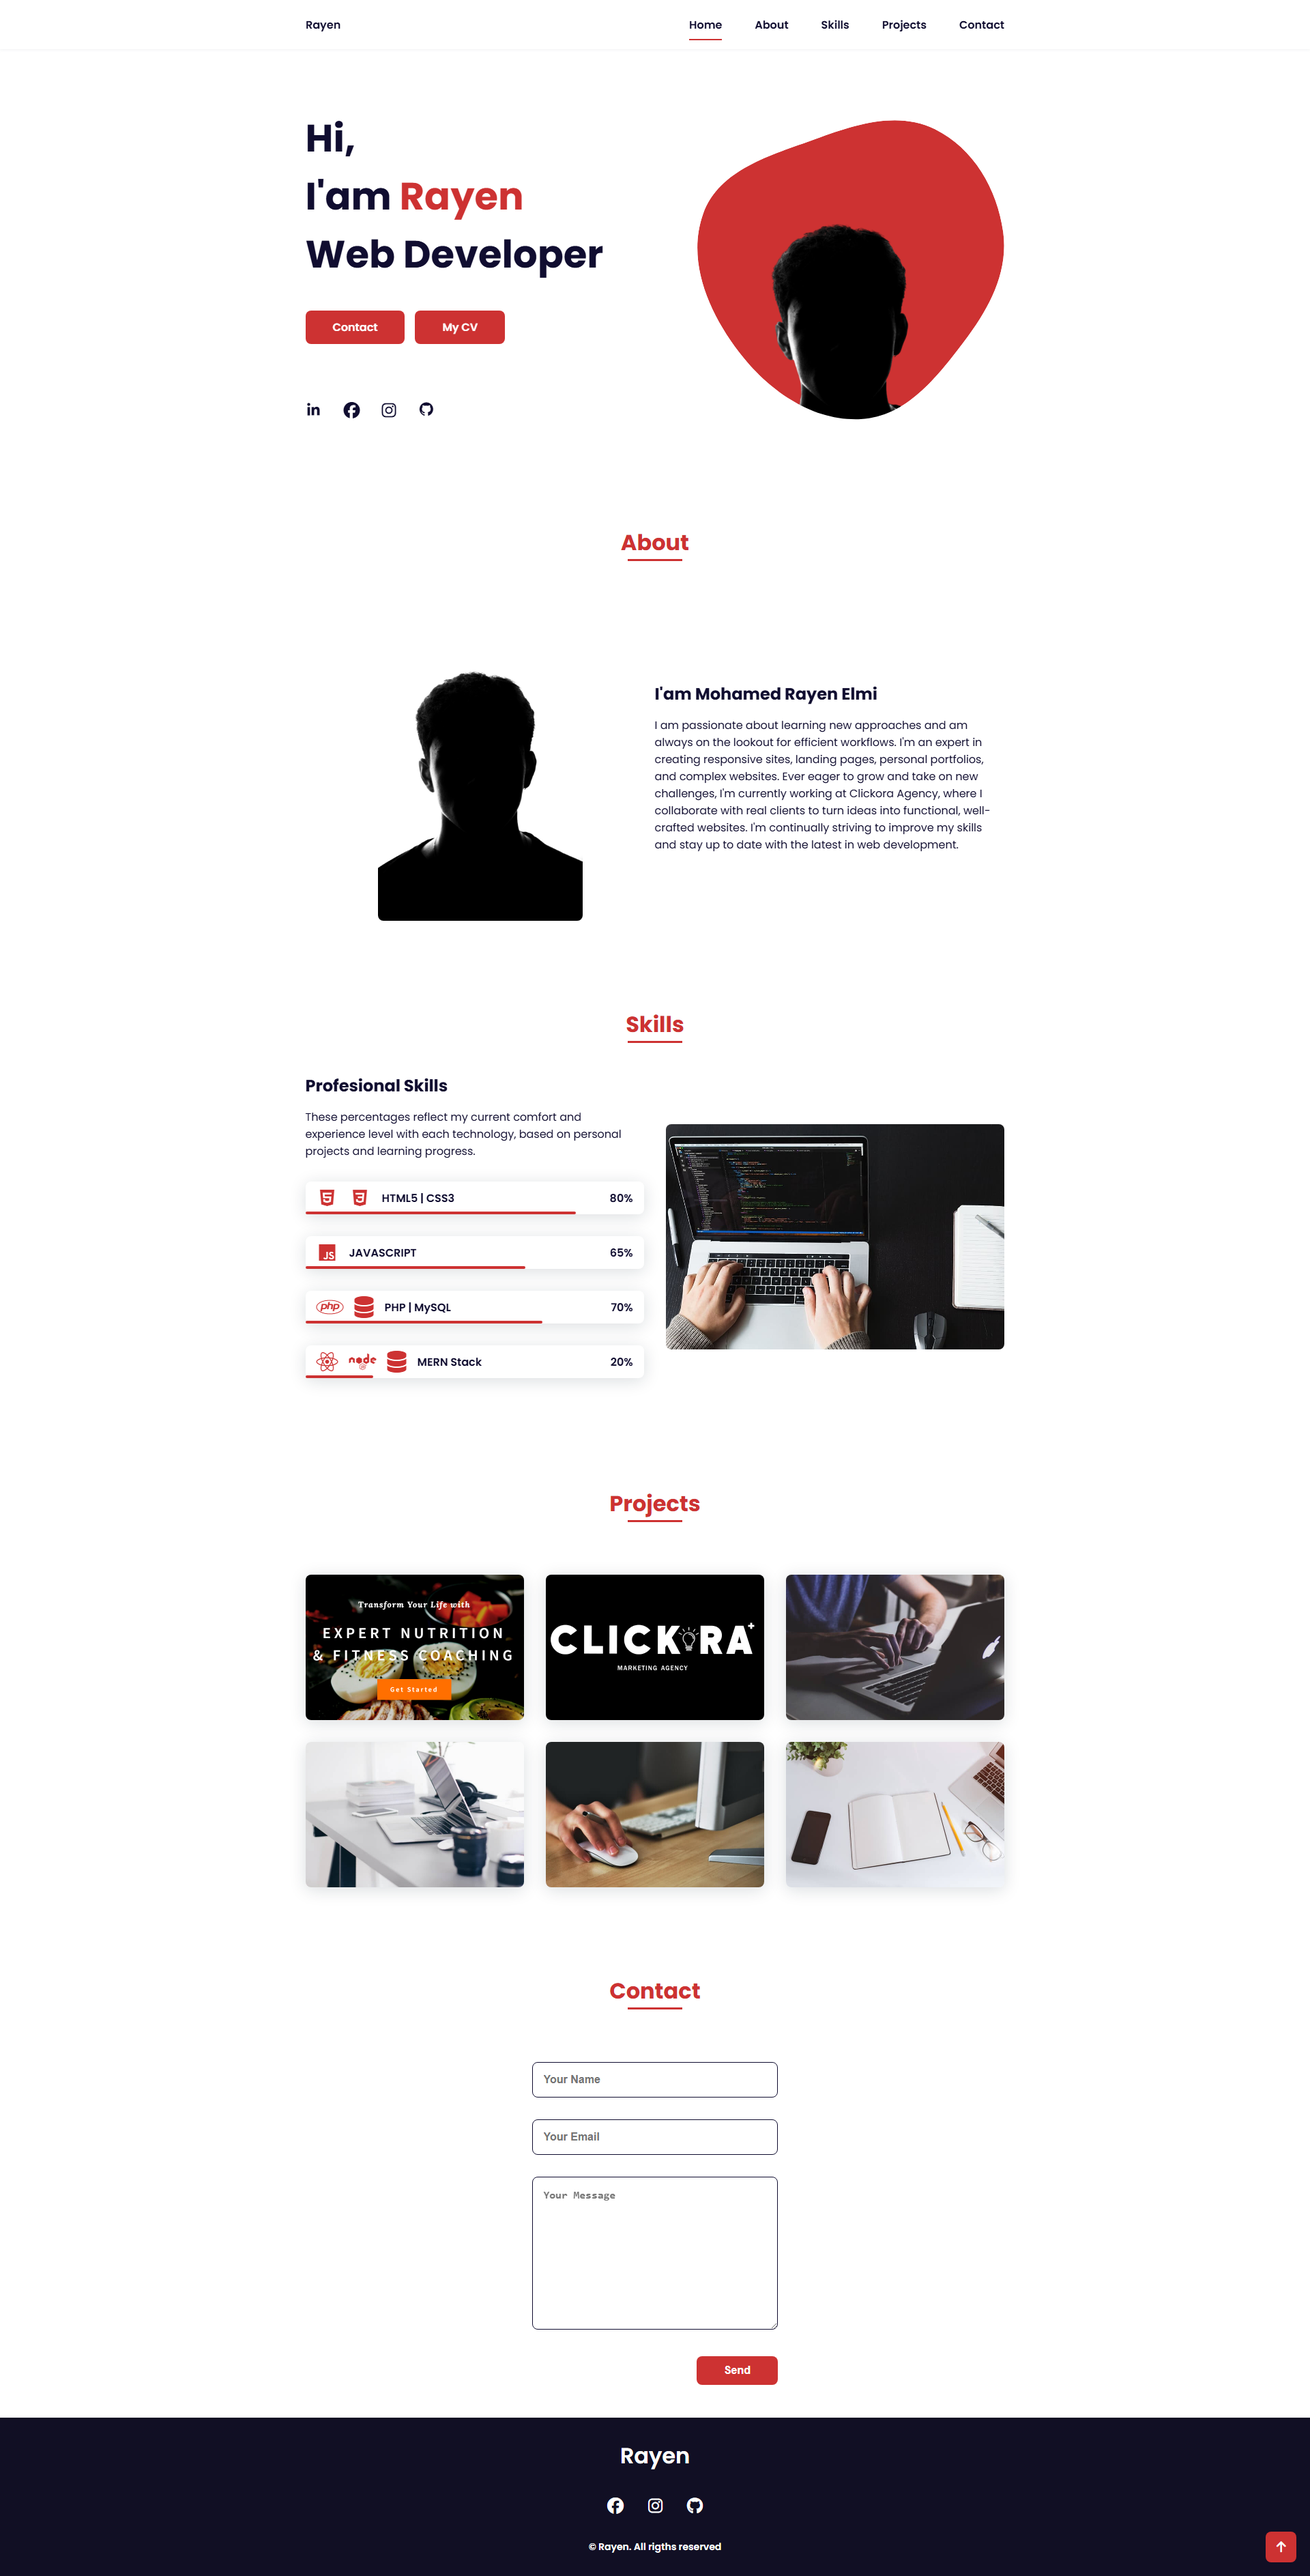
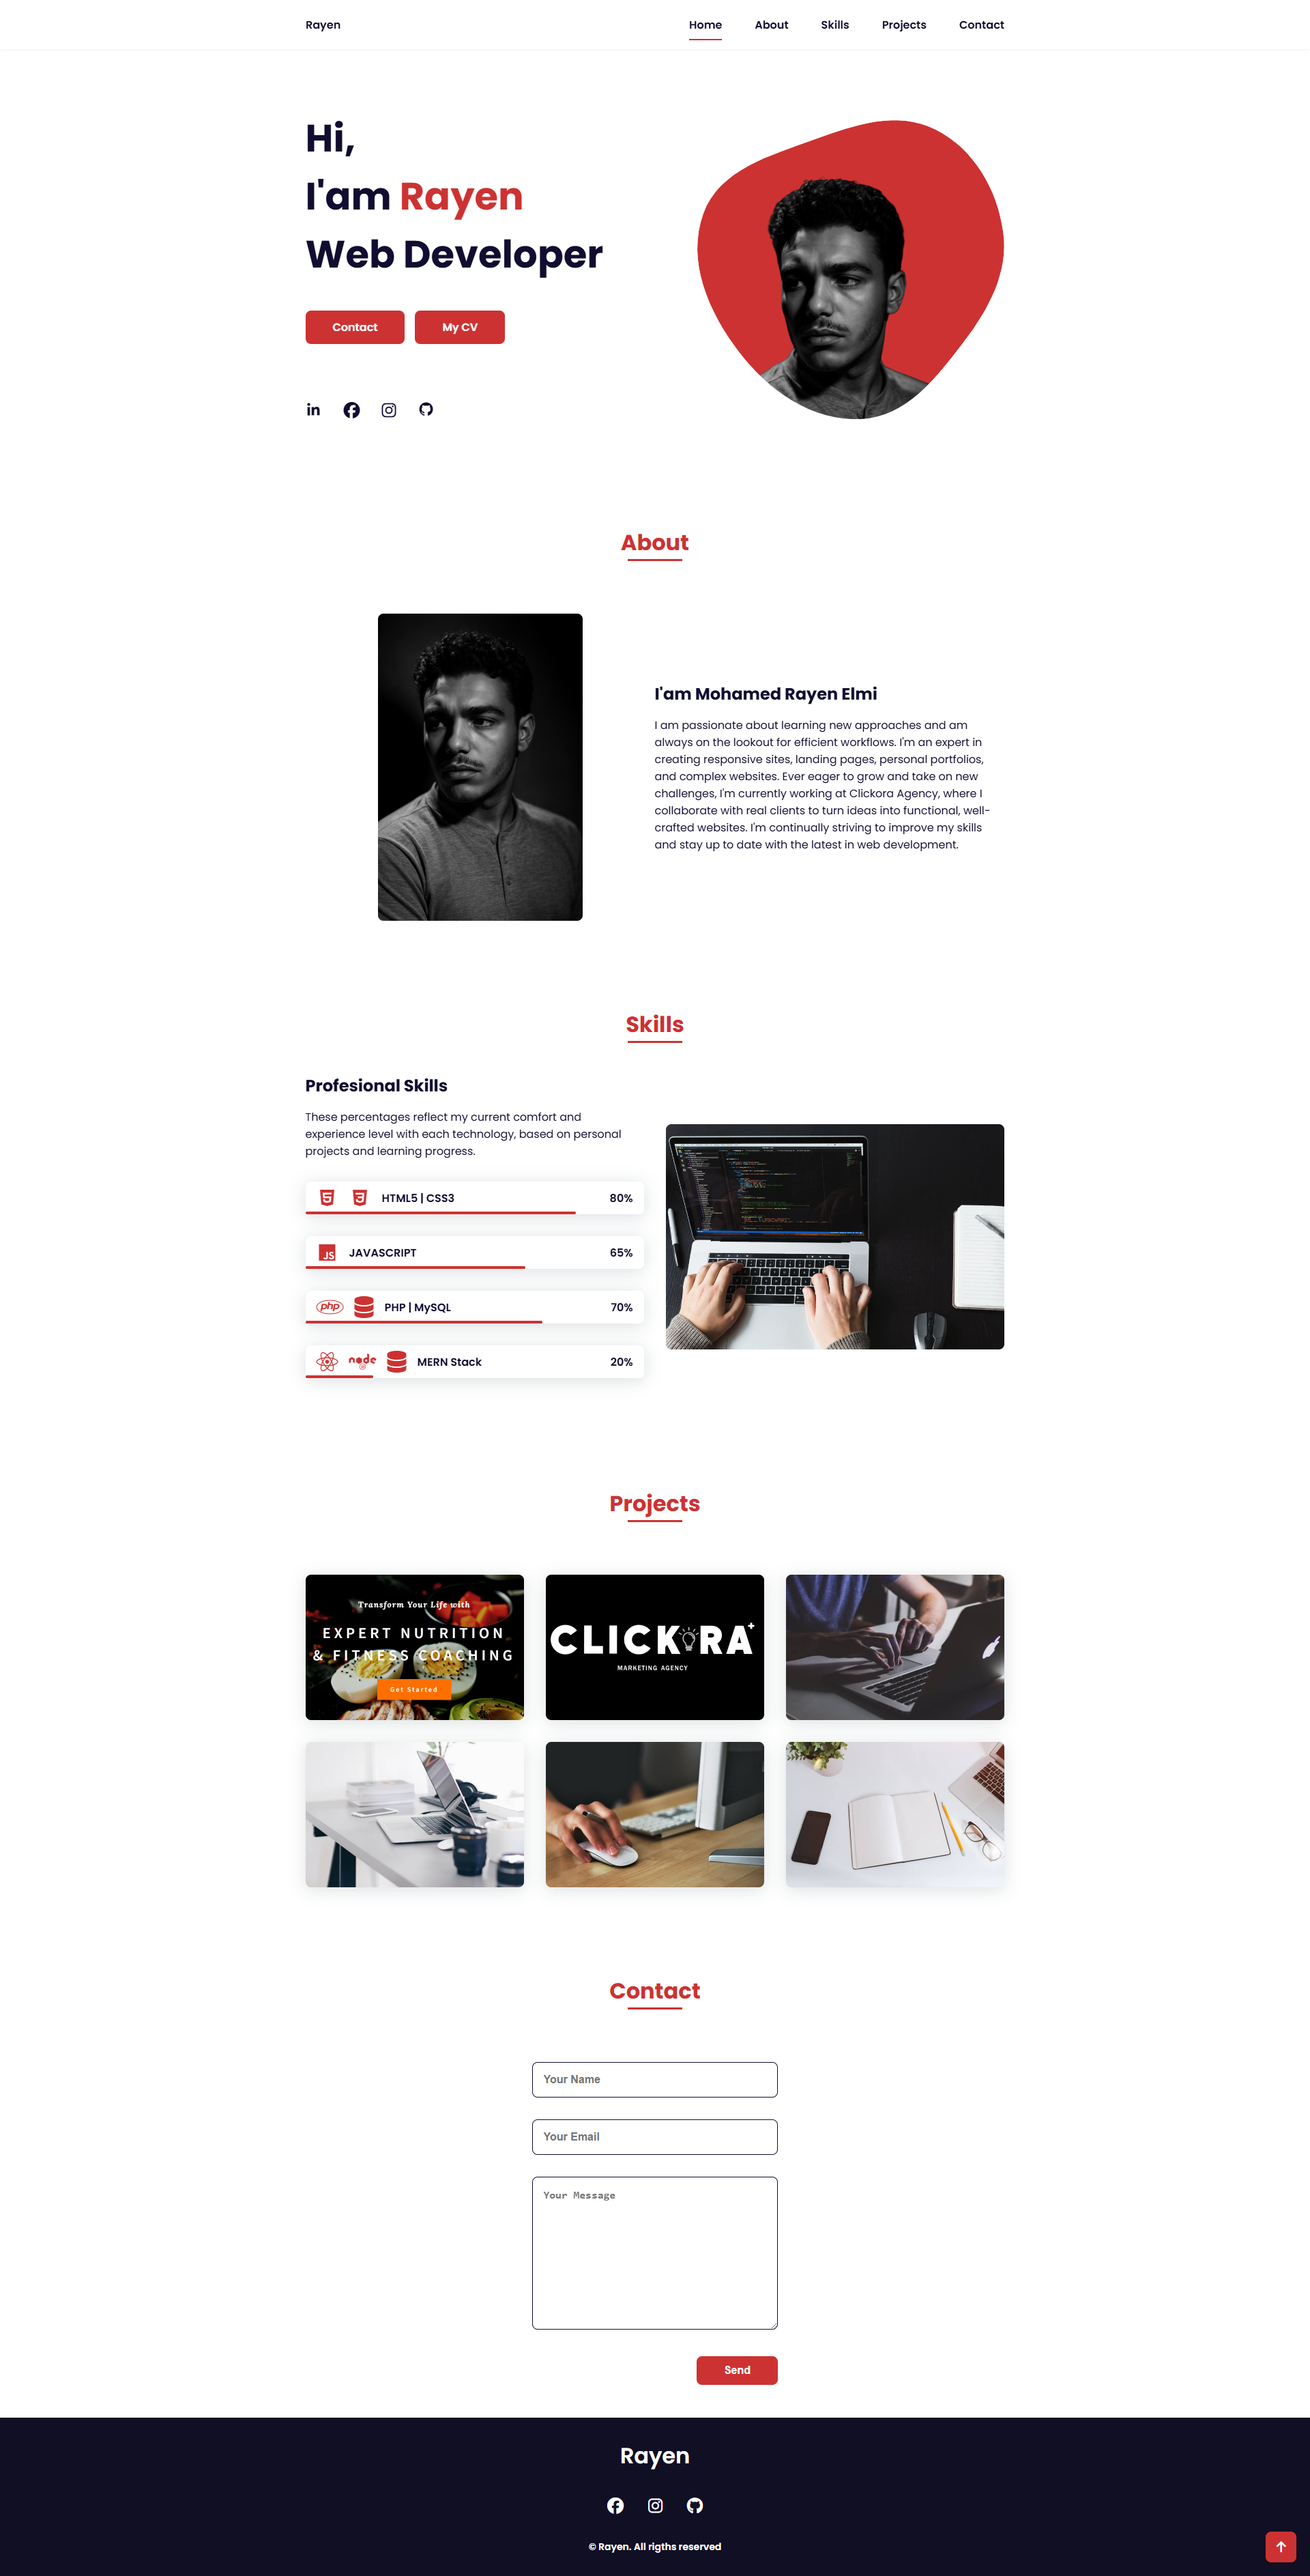
Add files via upload

Changed region(s): [[0.2812, 0.217, 0.4688, 0.372], [0.5938, 0.062, 0.7188, 0.186]]

diff --git a/index.html b/index.html
@@ -86,7 +86,7 @@
 
                 <div class="about__container bd-grid">
                     <div class="about__img">
-                        <img src="assets/img/about.jpg" alt="">
+                        <img src="assets/img/about.png" alt="">
                     </div>
                     
                     <div>
